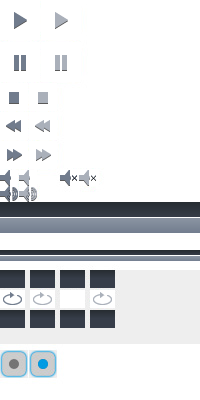
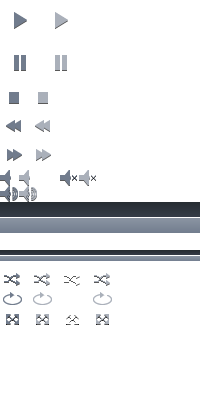
Display adjustments for video and layout

Changed region(s): [[0.0, 0.75, 0.6, 0.84], [0.0, 0.66, 0.6, 0.72], [0.0, 0.87, 0.3, 0.96]]

diff --git a/media/com_podcast/css/podcast.css b/media/com_podcast/css/podcast.css
@@ -36,9 +36,10 @@ h5.podcast_subtitle, h5.podcast_feed {
 /* General */
 .clear { clear: both; }
 .podcast_subscribe {
-    background: url(../images/icons/feeds-16.png) no-repeat #eee left center;
+    background: url(../images/icons/feeds-16.png) no-repeat #eee 5px center;
     border-radius: 3px;
-    padding: 5px 5px 5px 20px;
+    padding: 5px 5px 5px 25px;
+	margin: 3px;
     display: inline-block;
     float: right;
 }

diff --git a/components/com_podcast/views/episode/tmpl/default_video.php b/components/com_podcast/views/episode/tmpl/default_video.php
@@ -50,12 +50,12 @@ PodcastScripthelper::init_player($player_config);
 						<li><a href="javascript:;" class="jp-stop" tabindex="1"><?php echo JText::_('COM_PODCAST_PLAYER_VIDEO_STOP') ?></a></li>
 						<li><a href="javascript:;" class="jp-mute" tabindex="1" title="mute"><?php echo JText::_('COM_PODCAST_PLAYER_VIDEO_MUTE') ?></a></li>
 						<li><a href="javascript:;" class="jp-unmute" tabindex="1" title="unmute"><?php echo JText::_('COM_PODCAST_PLAYER_VIDEO_UNMUTE') ?></a></li>
-						<li>
-							<div class="jp-volume-bar">
-								<div class="jp-volume-bar-value"></div>
-							</div>
-						</li>
 						<li><a href="javascript:;" class="jp-volume-max" tabindex="1" title="max volume"><?php echo JText::_('COM_PODCAST_PLAYER_VIDEO_MAXVOLUME') ?></a></li>
+					</ul>
+					<div class="jp-volume-bar">
+						<div class="jp-volume-bar-value"></div>
+					</div>
+					<ul class="jp-toggles">
 						<li><a href="javascript:;" class="jp-full-screen" tabindex="1" title="full screen"><?php echo JText::_('COM_PODCAST_PLAYER_VIDEO_FULLSCREEN') ?></a></li>
 						<li><a href="javascript:;" class="jp-restore-screen" tabindex="1" title="restore screen"><?php echo JText::_('COM_PODCAST_PLAYER_VIDEO_RESTORESCREEN') ?></a></li>
 						<li><a href="javascript:;" class="jp-repeat" tabindex="1" title="repeat"><?php echo JText::_('COM_PODCAST_PLAYER_VIDEO_REPEAT') ?></a></li>

diff --git a/components/com_podcast/views/episodes/tmpl/default.php b/components/com_podcast/views/episodes/tmpl/default.php
@@ -15,7 +15,7 @@ $doc->addStyleSheet(JURI::root().'media/com_podcast/css/podcast.css');
 
 <h2 class="podcast_feed"><?php echo $this->escape($this->items[0]->feed_title); ?></h2>
 <span class="podcast_subscribe"><a href="<?php echo JRoute::_('index.php?option=com_podcast&view=feed&format=raw&feed_id='.$this->items[0]->feed_id) ?>"><?php echo JText::_('COM_PODCAST_EPISODES_SUBSCRIBE') ?></a></span>
-
+<div class="clear"></div>
 <?php foreach ($this->items as $item) :
 $asset = $this->assets[$item->episode_id][0];
 ?>
@@ -28,10 +28,10 @@ $asset = $this->assets[$item->episode_id][0];
 
 <div class="podcast_header_meta">
 	<span class="podcast_author"><?php echo JText::_('COM_PODCAST_EPISODES_AUTHOR'); ?>: <?php echo $this->escape($item->episode_author) ?></span>
-	<span class="podcast_date"><?php echo JText::_('COM_PODCAST_EPISODES_DATE') ?>: <?php echo $this->escape($item->episode_pubDate) ?></span>
+	<span class="podcast_date"><?php echo JText::_('COM_PODCAST_EPISODES_DATE') ?>: <?php echo JHtml::_('date', strtotime($item->episode_pubDate), JText::_('DATE_FORMAT_LC1')); ?></span>
 	<span class="podcast_duration"><?php echo JText::_('COM_PODCAST_EPISODES_DURATION') ?>: <?php echo $this->escape($asset->asset_duration) ?></span>
 </div>
 
-<div class="clear"></div>
+<hr class="clear" />
 
 <?php endforeach; ?>

diff --git a/components/com_podcast/views/episode/tmpl/default.php b/components/com_podcast/views/episode/tmpl/default.php
@@ -23,7 +23,7 @@ $doc->addStyleSheet(JURI::root().'media/com_podcast/css/podcast.css');
 <div class="podcast_header_meta">
 	<span class="podcast_keywords"><?php echo $this->escape($this->item->episode_keywords) ?></span>
 	<span class="podcast_author"><?php echo JText::_('COM_PODCAST_EPISODE_AUTHOR'); ?>: <?php echo $this->escape($this->item->episode_author) ?></span>
-	<span class="podcast_date"><?php echo JText::_('COM_PODCAST_EPISODE_DATE') ?>: <?php echo $this->escape($this->item->episode_pubDate) ?></span>
+	<span class="podcast_date"><?php echo JText::_('COM_PODCAST_EPISODE_DATE') ?>: <?php echo JHtml::_('date', strtotime($this->item->episode_pubDate), JText::_('DATE_FORMAT_LC1')); ?></span>
 	<span class="podcast_duration"><?php echo JText::_('COM_PODCAST_EPISODE_DURATION') ?>: <?php echo $this->escape($this->asset->asset_duration) ?></span>
 </div>
 

diff --git a/components/com_podcast/models/episodes.php b/components/com_podcast/models/episodes.php
@@ -15,12 +15,16 @@ class PodcastModelEpisodes extends JModelList
 	public function getListQuery()
 	{
 		$query = parent::getListQuery();
+		
+		$feed_id = JRequest::getInt('feed_id', 0);
 
 		$query->select('tbl.*,
 			f.feed_title')
 				->from('#__podcast_episodes AS tbl')
 				->join('LEFT', '#__podcast_feeds AS f USING (feed_id)');
 
+		if ($feed_id) $query->where('tbl.feed_id = '.$feed_id);
+				
 		return $query;
 	}
 
